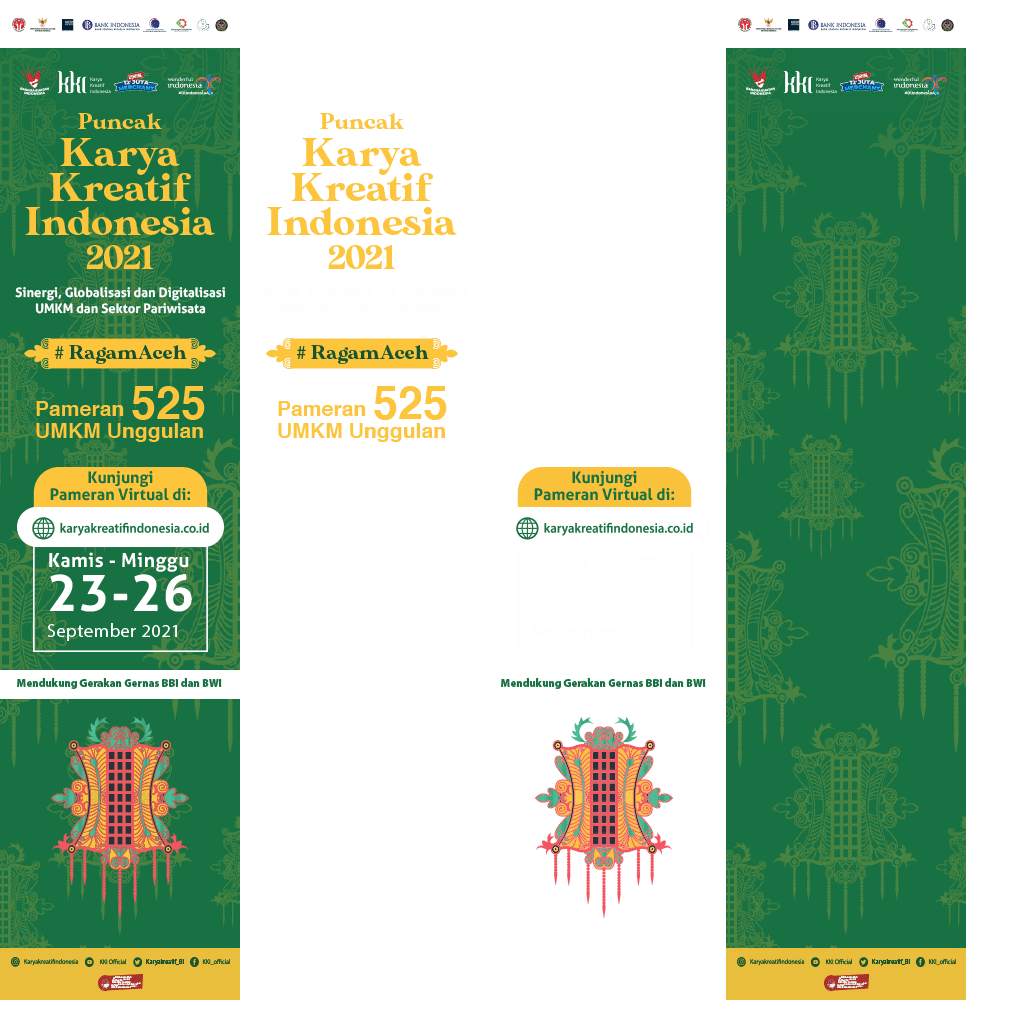
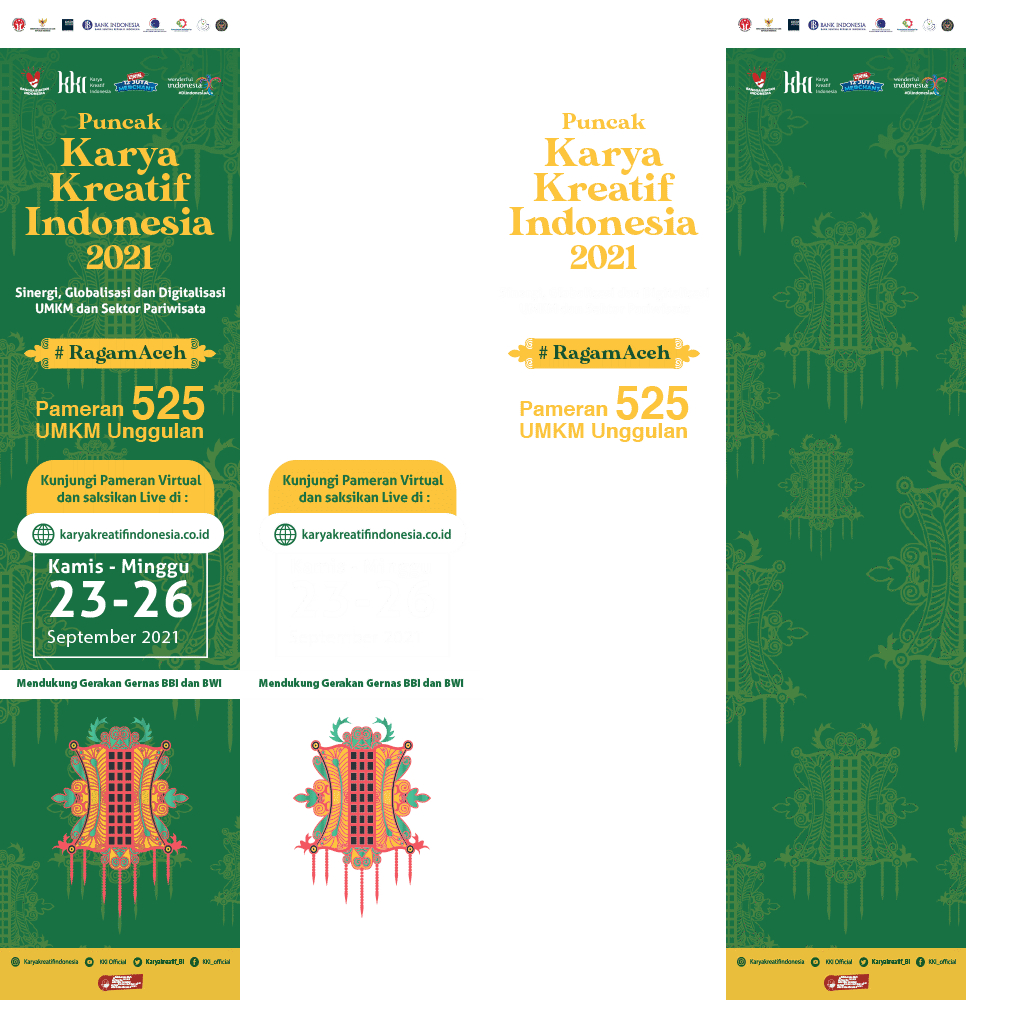
sfef

diff --git a/idntimes/cpc/bankindonesia/src/html5/160x600-L/index.js b/idntimes/cpc/bankindonesia/src/html5/160x600-L/index.js
@@ -3,7 +3,7 @@
 var p; // shortcut to reference prototypes
 var lib={};var ss={};var img={};
 lib.ssMetadata = [
-		{name:"index_atlas_", frames: [[242,0,240,1000],[484,0,240,1000],[726,0,240,1000],[0,0,240,1000]]}
+		{name:"index_atlas_", frames: [[484,0,240,1000],[242,0,240,1000],[726,0,240,1000],[0,0,240,1000]]}
 ];
 
 

diff --git a/idntimes/cpc/bankindonesia/src/html5/160x600-R/index.js b/idntimes/cpc/bankindonesia/src/html5/160x600-R/index.js
@@ -3,7 +3,7 @@
 var p; // shortcut to reference prototypes
 var lib={};var ss={};var img={};
 lib.ssMetadata = [
-		{name:"index_atlas_", frames: [[484,0,240,1000],[0,0,240,1000],[242,0,240,1000],[726,0,240,1000]]}
+		{name:"index_atlas_", frames: [[0,0,240,1000],[726,0,240,1000],[242,0,240,1000],[484,0,240,1000]]}
 ];
 
 
